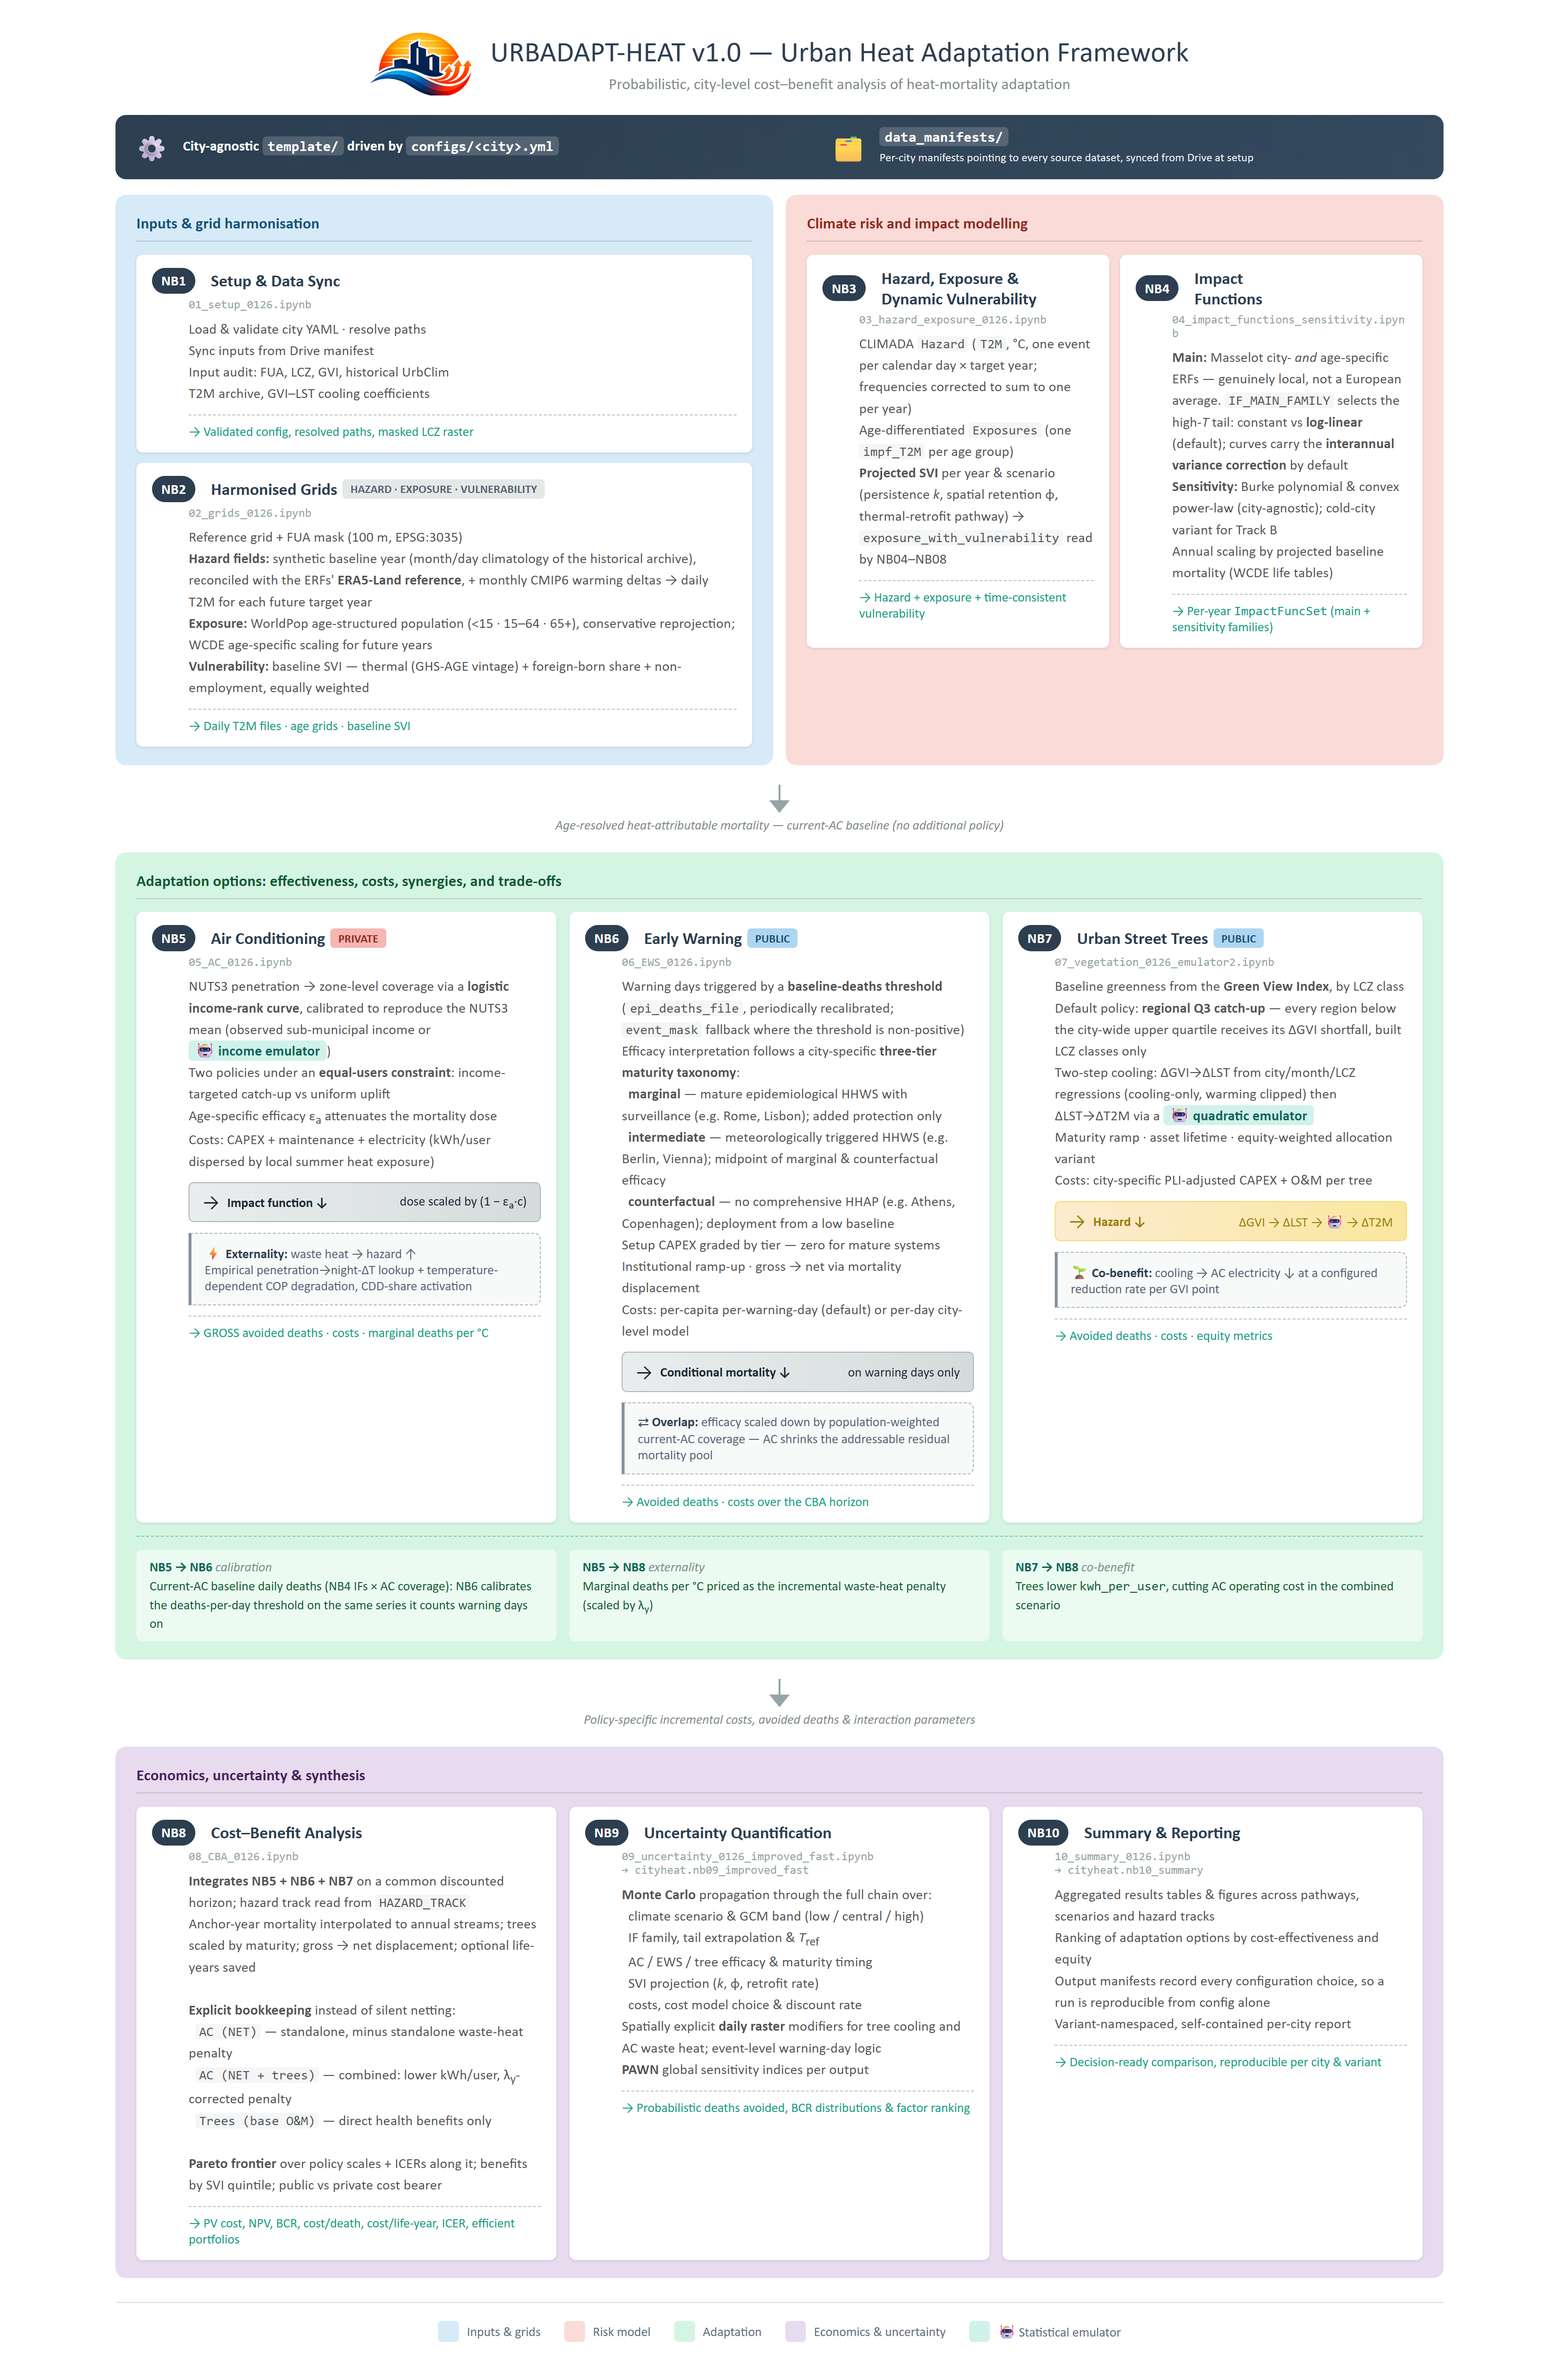
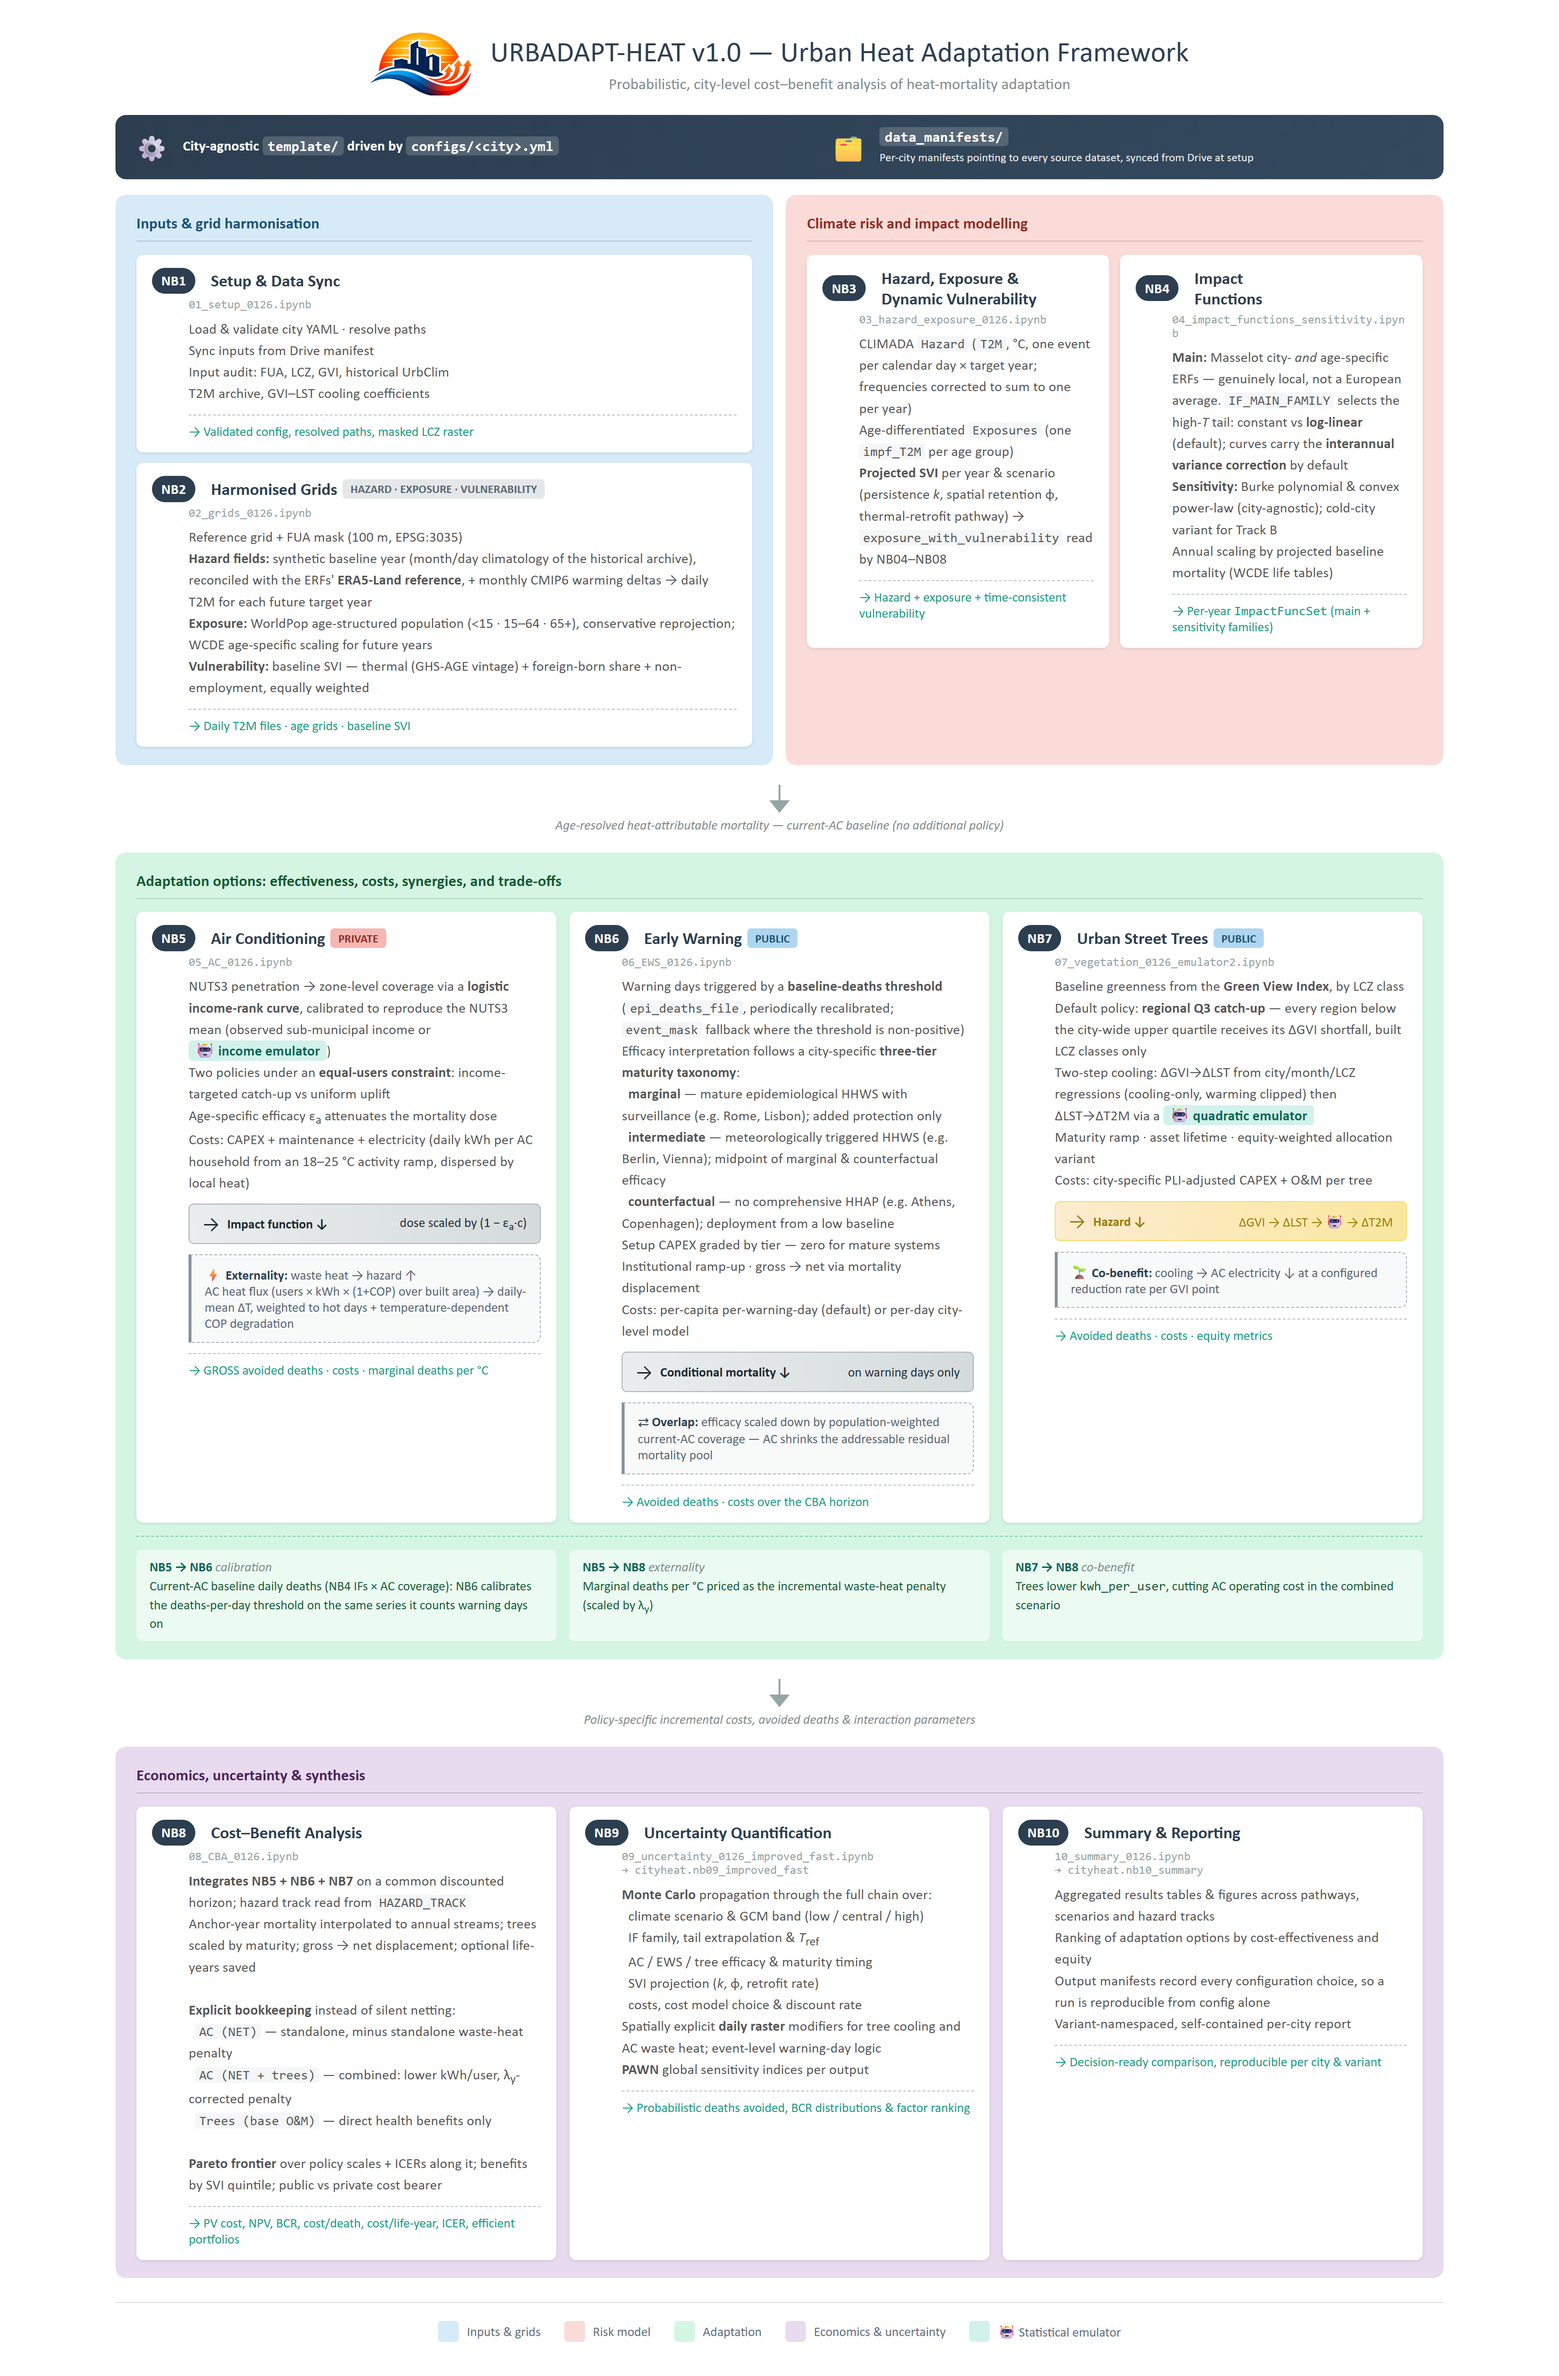
GMD figures for the AC heat-flux method: uncertainty table rows, diagram, pilot loading
- make_uncertainty_matrix: the waste-heat sensitivity S and the AC electricity at
  full activity e_full replace the Salamanca lookup rows, read from
  cityheat/ac_heat_energy.py with per-city ac.heat_energy overrides (module loaded
  by file, no CLIMADA import); per-component footnotes (vulnerability k) no longer
  print a raw Python dict.
- Workflow diagram: the NB5 box describes the daily electricity rule and the AC
  heat flux instead of the penetration-to-night-warming lookup; diagram.png re-rendered.
- workflow_figures: the pilot panels load under an absolute --variant path, and the
  city legend of the cost-effectiveness frontier sits clear of the data.

Changed region(s): [[0.125, 0.4674, 0.3438, 0.592]]

diff --git a/urban-heat/notebooks/city_agnostic/March2026_agnostic/diagram.html b/urban-heat/notebooks/city_agnostic/March2026_agnostic/diagram.html
@@ -527,8 +527,8 @@
                             Two policies under an <strong>equal-users constraint</strong>:
                             income-targeted catch-up vs uniform uplift<br>
                             Age-specific efficacy ε<sub>a</sub> attenuates the mortality dose<br>
-                            Costs: CAPEX + maintenance + electricity (kWh/user
-                            dispersed by local summer heat exposure)
+                            Costs: CAPEX + maintenance + electricity (daily kWh per AC
+                            household from an 18–25 °C activity ramp, dispersed by local heat)
                         </div>
                         <div class="mechanism-box mech-vuln">
                             <span class="mech-arrow">→</span>
@@ -537,8 +537,8 @@
                         </div>
                         <div class="callout">
                             <strong>⚡ Externality:</strong> waste heat → hazard ↑<br>
-                            Empirical penetration→night-ΔT lookup + temperature-dependent
-                            COP degradation, CDD-share activation
+                            AC heat flux (users × kWh × (1+COP) over built area) → daily-mean ΔT,
+                            weighted to hot days + temperature-dependent COP degradation
                         </div>
                         <div class="nb-output">→ GROSS avoided deaths · costs · marginal deaths per °C</div>
                     </div>

diff --git a/visual_items/pilot_cities/workflow_tables/make_uncertainty_matrix.py b/visual_items/pilot_cities/workflow_tables/make_uncertainty_matrix.py
@@ -20,12 +20,15 @@ Usage (from the ``visual_items/pilot_cities/`` directory)::
     python -m workflow_tables.make_uncertainty_matrix --out /path/to/overleaf/tables
 
 Sampling ranges that are declared in Notebook 09 rather than in the city configs
-(MDD scales, mortality displacement, PAA, cooling-coefficient scale, waste-heat
-ratios) are held as literals here and annotated with their source.
+(MDD scales, mortality displacement, PAA, cooling-coefficient scale) are held as
+literals here and annotated with their source. The waste-heat sensitivity and the
+AC electricity at full cooling activity come from ``urban-heat/cityheat/ac_heat_energy.py``
+(its defaults, overridden per city under ``ac.heat_energy``), as NB05, NB08 and NB09 read them.
 """
 from __future__ import annotations
 
 import argparse
+import importlib.util
 import sys
 from pathlib import Path
 
@@ -96,6 +99,31 @@ class Cfg:
             if not path.exists():
                 raise SystemExit(f"missing config: {path}")
             self.data[slug] = yaml.safe_load(path.read_text(encoding="utf-8")) or {}
+        # AC electricity and waste heat: module defaults merged with each city's overrides.
+        # Loaded from its file so the cityheat package (and its CLIMADA imports) is not needed.
+        spec = importlib.util.spec_from_file_location(
+            "ac_heat_energy", root / "cityheat" / "ac_heat_energy.py")
+        ahe = importlib.util.module_from_spec(spec)
+        spec.loader.exec_module(ahe)
+        self.heat_energy = {slug: ahe.params(self.data[slug]) for slug in PILOTS}
+
+    def he_all(self, dotted: str) -> dict:
+        out = {}
+        for slug in PILOTS:
+            cur = self.heat_energy[slug]
+            for k in dotted.split("."):
+                cur = cur[k]
+            out[slug] = cur
+        return out
+
+    def he_uniform(self, dotted: str):
+        """Shared heat-energy value if every pilot agrees, else None."""
+        vals = list(self.he_all(dotted).values())
+        return vals[0] if len(set(map(str, vals))) == 1 else None
+
+    def he_note(self, dotted: str) -> str:
+        vals = self.he_all(dotted)
+        return "; ".join(f"{CITY_LABEL[s]}: {num(vals[s])}" for s in PILOTS)
 
     def get(self, slug: str, dotted: str):
         cur = self.data[slug]
@@ -117,7 +145,13 @@ class Cfg:
 
     def per_city_note(self, dotted: str, fmt=num) -> str:
         vals = self.all(dotted)
-        return "; ".join(f"{CITY_LABEL[s]}: {fmt(vals[s])}" for s in PILOTS)
+
+        def show(v):
+            # A per-component block (e.g. vulnerability.dynamic.k) as "default 0.85, foreign-born 0.85".
+            if isinstance(v, dict):
+                return ", ".join(f"{str(k).replace('_', '-')} {fmt(x)}" for k, x in v.items())
+            return fmt(v)
+        return "; ".join(f"{CITY_LABEL[s]}: {show(vals[s])}" for s in PILOTS)
 
     def triple_note(self, dotted: str) -> str:
         """Per-city low/central/high triples for an efficacy-style block."""
@@ -167,16 +201,32 @@ def build_rows(c: Cfg) -> list:
         r"warmest\allowbreak\_\allowbreak summer", "Discrete (4 modes)",
         "NB02; " + tex_escape_path("climate.t2m_baseline_mode_options")
         + r"; also pixelwise\allowbreak\_\allowbreak doy\allowbreak\_\allowbreak max (extreme sensitivity)")
-    row("Waste-heat LUT case",
-        r"Salamanca 2014 LUT: AC penetration $\to$ nighttime dT",
-        "central", "low", "high", r"Discrete \{low, central, high\}",
-        "All configs " + tex_escape_path("ac.waste_heat.lut_case_options")
-        + r"; \citet{Salamanca2014} Table~2")
-    row("Waste-heat night-to-daily ratio",
-        "Fraction of nighttime dT attributed to the daily mean",
-        "0.5", "0.33", "0.67", "Uniform(0.33, 0.67)",
-        "All configs " + tex_escape_path("ac.waste_heat.dailymean_from_night_range")
-        + "; NB08 CBA")
+    # (heat-energy key, its sampling-range key, label, description, unit, evidence)
+    for path, rng, label, desc, unit, src in (
+            ("waste_heat.sensitivity_k_per_wm2", "waste_heat.sensitivity_range_k_per_wm2",
+             r"Waste-heat sensitivity ($S$)",
+             r"City-wide daily-mean warming per W\,m$^{-2}$ of AC heat rejected over "
+             r"the built-up area (LCZ 1--10)",
+             r"K\,(W\,m$^{-2}$)$^{-1}$",
+             r"modelling median 0.017 (IQR 0.008--0.029) \citep{Li2026AHF}; upper bound "
+             r"Phoenix under extreme heat \citep{Salamanca2014}"),
+            ("electricity.kwh_per_household_day_full", "electricity.kwh_per_household_day_full_range",
+             r"AC electricity at full activity ($e_{\mathrm{full}}$)",
+             "Electricity per AC household on a day at full cooling activity; also sets "
+             "each draw's AC electricity cost",
+             r"kWh per household per day; 2.5 on the first cooling day, activity ramp "
+             r"18--25\,$^\circ$C",
+             None)):
+        base = c.he_uniform(path)
+        lo, hi = c.he_uniform(rng) or (None, None)
+        row(label, desc,
+            num(base) if base is not None else CITY_SPECIFIC,
+            num(lo) if lo is not None else "--", num(hi) if hi is not None else "--",
+            "Uniform(%s, %s)" % (num(lo), num(hi)) if lo is not None else CITY_SPECIFIC,
+            unit + "; " + tex_escape_path("ac.heat_energy." + path)
+            + r", default in \texttt{cityheat/ac\_heat\_energy.py}"
+            + ("" if base is not None else ". " + c.he_note(path))
+            + ("; " + src if src else ""))
     row("COP degradation sensitivity",
         "Fractional COP drop per $^\\circ$C of outdoor T rise",
         "0.065", "0.04", "0.09", r"Discrete \{low, central, high\}",

diff --git a/visual_items/pilot_cities/workflow_figures/figures.py b/visual_items/pilot_cities/workflow_figures/figures.py
@@ -434,7 +434,8 @@ def fig_ac_penetration(co: CityOutputs, out_dir: Path, *, year: int = 2050) -> P
 
 def _load_pilots(co: CityOutputs) -> list[CityOutputs]:
     """Load the pilot cities that exist under the same output variant as ``co``."""
-    variant = co.out.parent.name
+    # The full parent path, so an absolute --variant (a tree outside outputs_variants/) also works.
+    variant = str(co.out.parent)
     cos = []
     for slug in S.PILOT_CITIES:
         try:
@@ -504,7 +505,7 @@ def fig_cba_dashboard(co: CityOutputs, out_dir: Path) -> Path:
     city_h = [Line2D([], [], marker=S.CITY_MARKERS[c.slug], ls='', color=S.INK, label=S.CITY_NAMES[c.slug]) for c in cos]
     leg = axA.legend(handles=pol_h, title='Policy', loc='upper left', fontsize=9)
     axA.add_artist(leg)
-    axA.legend(handles=city_h, title='City', loc='lower right', fontsize=9)
+    axA.legend(handles=city_h, title='City', loc='lower left', fontsize=9)
     cities = [c.slug for c in cos]
     x = np.arange(len(cities))
     width = 0.26
